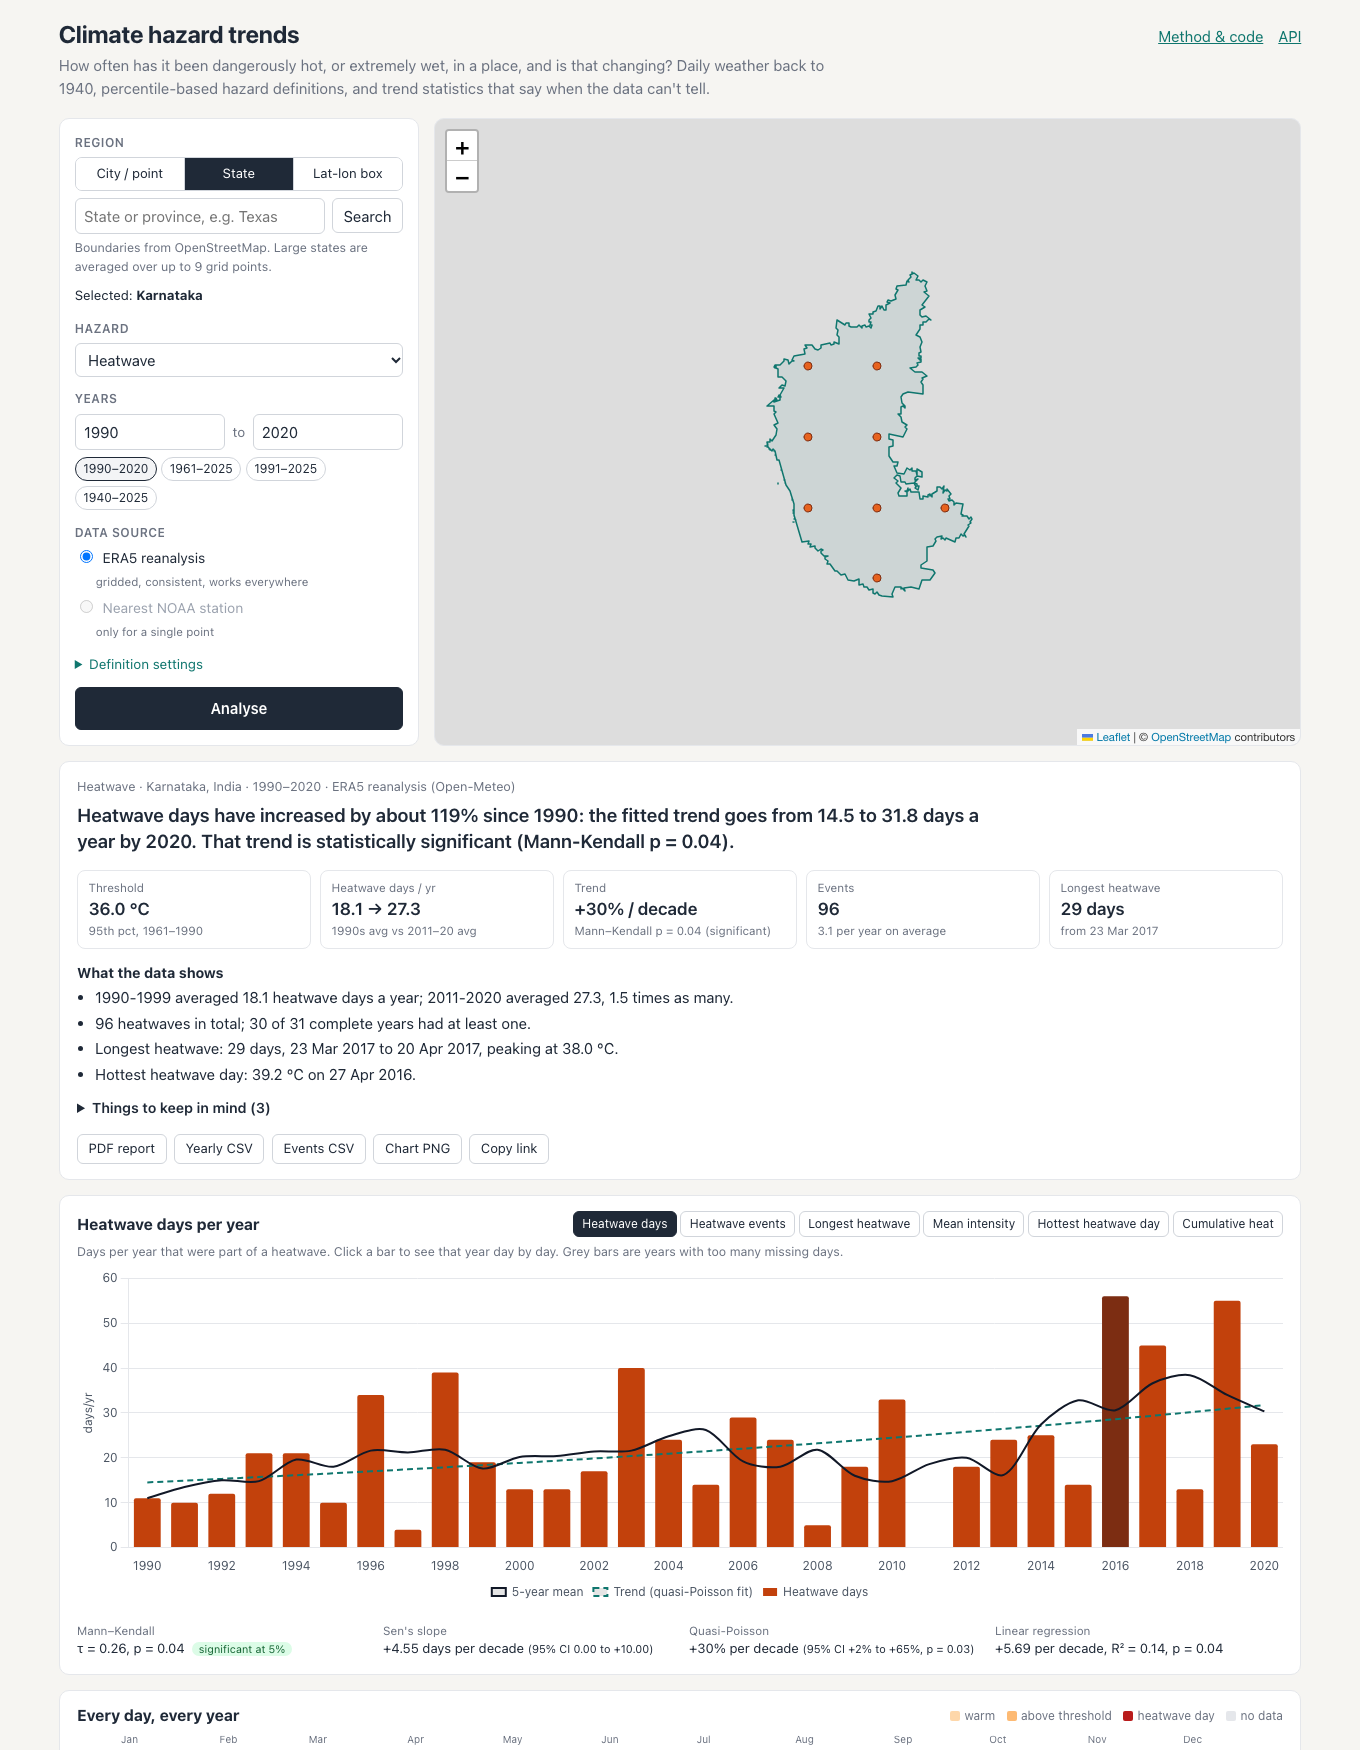
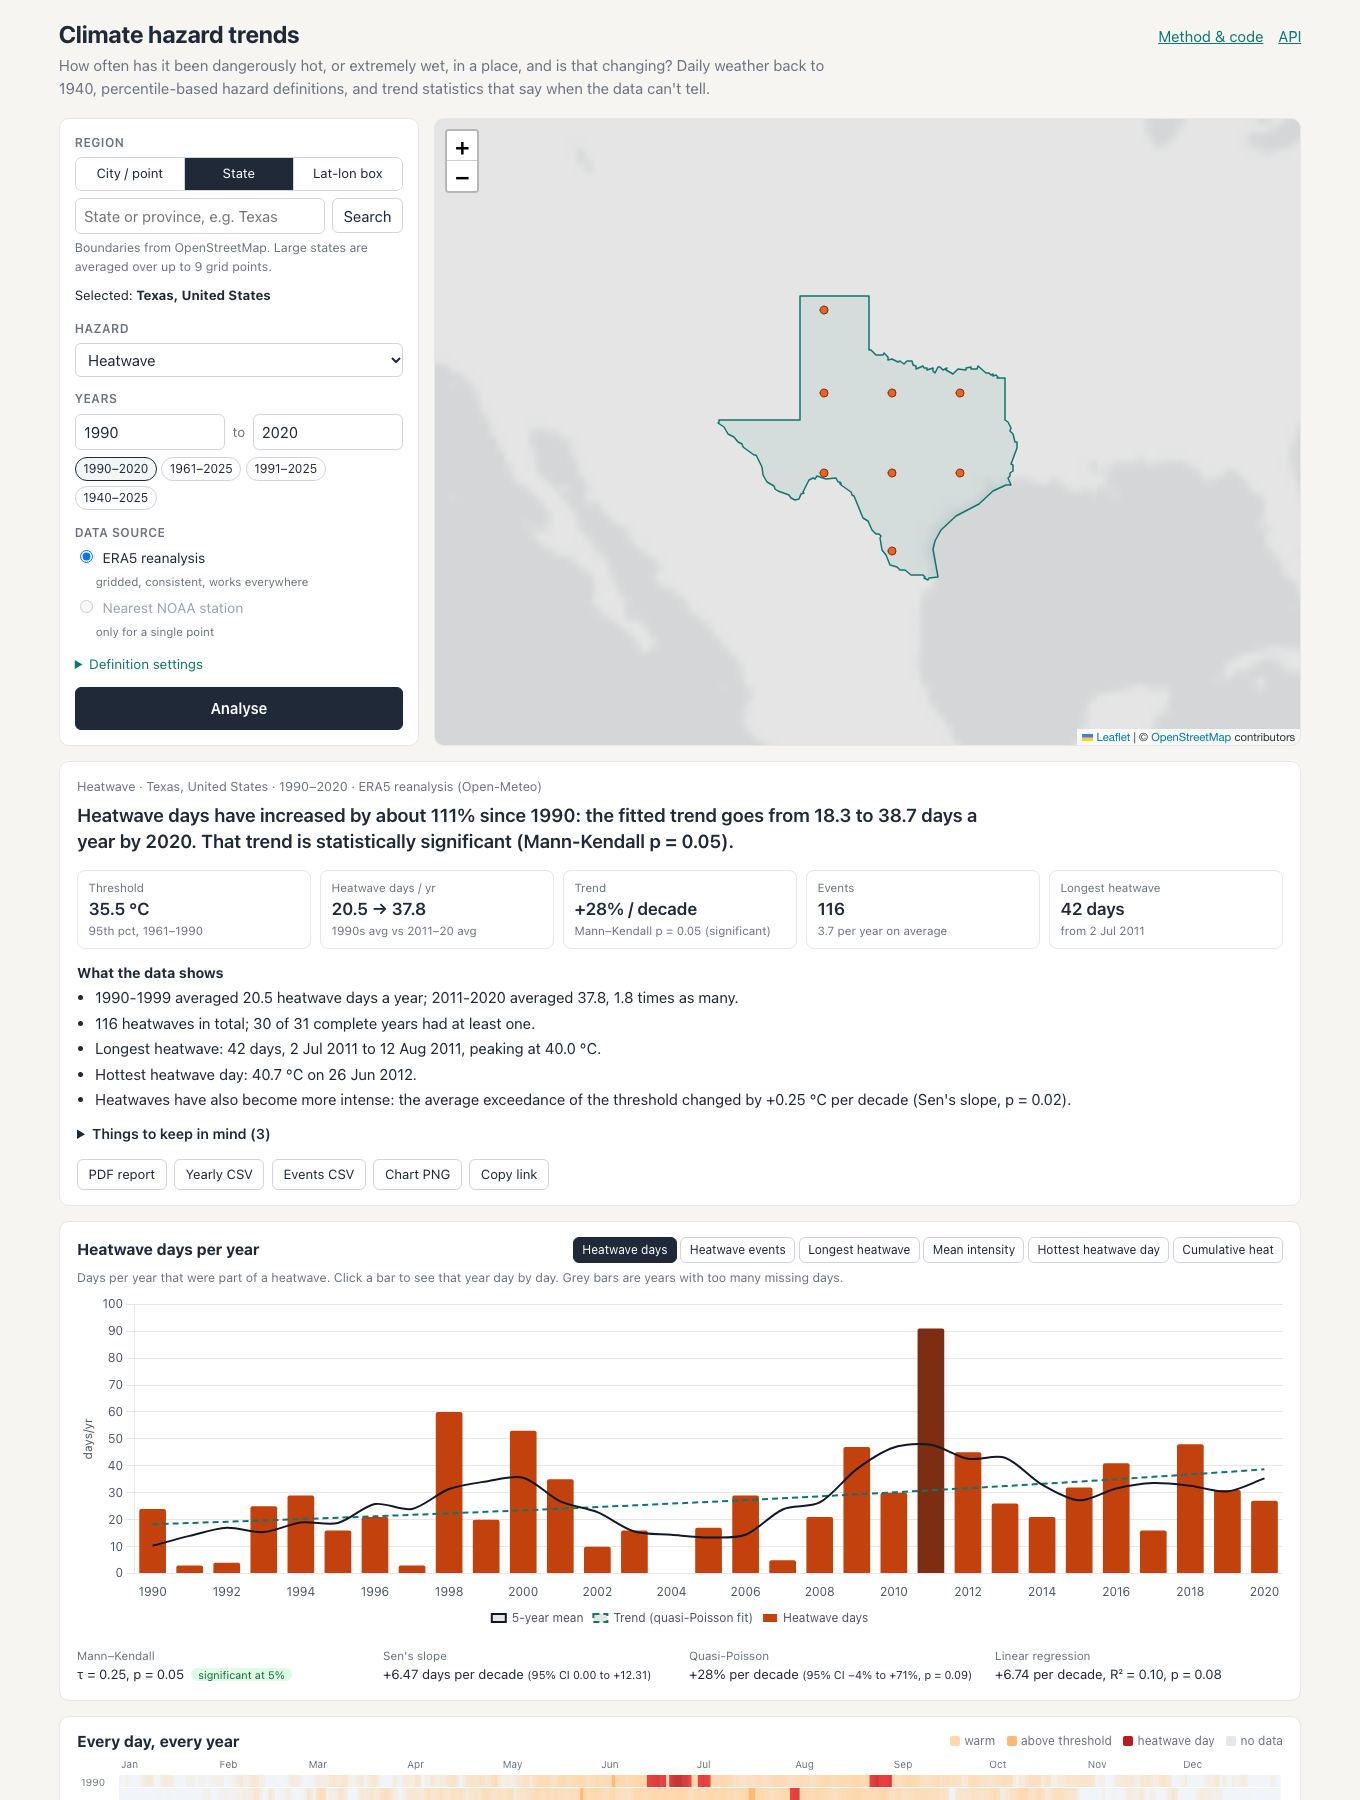
Say when a trend's direction is clear but its size isn't; 3-decimal p-values near 0.05

diff --git a/frontend/src/format.ts b/frontend/src/format.ts
@@ -11,7 +11,7 @@ export function signed(v: number, digits = 1): string {
 
 export function pValue(p: number): string {
   if (p < 0.001) return "p < 0.001";
-  return `p = ${p < 0.01 ? p.toFixed(3) : p.toFixed(2)}`;
+  return `p = ${p < 0.1 ? p.toFixed(3) : p.toFixed(2)}`;
 }
 
 export function shortDate(iso: string): string {

diff --git a/backend/app/insights.py b/backend/app/insights.py
@@ -23,7 +23,9 @@ NOUNS = {
 
 
 def _p(p: float) -> str:
-    return "p < 0.001" if p < 0.001 else f"p = {p:.3f}" if p < 0.01 else f"p = {p:.2f}"
+    # Three decimals near the 0.05 line, otherwise "p = 0.05 (significant)"
+    # shows up for p = 0.0495 and looks like a contradiction.
+    return "p < 0.001" if p < 0.001 else f"p = {p:.3f}" if p < 0.1 else f"p = {p:.2f}"
 
 
 def _pct(v: float) -> str:
@@ -119,6 +121,15 @@ def build(hz: Hazard, p: Params, result: dict, trends: dict, region: dict, quali
             find(f"The wettest day of the year has changed by {slope:+.1f} mm per decade (Sen's slope, {_p(t['mk']['p'])}).")
 
     # --- caveats --------------------------------------------------------
+    if primary.get("enough_data") and primary["mk"]["p"] < 0.05:
+        qp = primary.get("poisson")
+        if qp and qp["pct_per_decade_lo"] < 0 < qp["pct_per_decade_hi"]:
+            caveat(f"The direction of the trend is fairly clear, but its size isn't: the 95% interval for the "
+                   f"change runs from {qp['pct_per_decade_lo']:+.0f}% to {qp['pct_per_decade_hi']:+.0f}% per decade.")
+        elif not qp and primary["sen"]["lo"] < 0 < primary["sen"]["hi"]:
+            caveat("The direction of the trend is fairly clear, but its size isn't: the confidence interval "
+                   "of Sen's slope includes zero.")
+
     if primary.get("enough_data"):
         n = primary["n"]
         if n < 30:

diff --git a/backend/app/analysis.py b/backend/app/analysis.py
@@ -22,7 +22,7 @@ from .trends import summarize
 log = logging.getLogger(__name__)
 
 # Bump when the hazard/trend logic changes so old cached analyses aren't served.
-ALGO_VERSION = 4
+ALGO_VERSION = 5
 MAX_EVENTS = 3000
 
 SOURCES = {

diff --git a/README.md b/README.md
@@ -10,7 +10,7 @@ you can be about the answer.
 It runs on a scale-to-zero free tier, so if nobody has used it for a while the
 first load takes ~20 seconds.
 
-![Karnataka, 1990-2020](docs/screenshot.png)
+![Texas, 1990-2020](docs/screenshot.png)
 
 The default view is the one the brief asks for: heatwaves, defined as 3+
 consecutive days with a daily maximum above the 95th percentile, for a region
@@ -226,8 +226,9 @@ Three real results (1990–2020, 1961–1990 thresholds) show the rules at work:
 | region | heatwave days/yr, 1990s → 2011–20 | Mann-Kendall | what the app says |
 |---|---|---|---|
 | Phoenix | 15.1 → 18.5 | p = 0.42 | no clear trend |
-| Paris | 19.6 → 26.4 | p = 0.08 | signs of an increase, weak evidence |
-| Karnataka (state) | 18.1 → 27.3 | p = 0.04 | increased by about 119% since 1990 |
+| Paris | 19.6 → 26.4 | p = 0.077 | signs of an increase, weak evidence |
+| Karnataka (state) | 18.1 → 27.3 | p = 0.041 | increased by about 119% since 1990 |
+| Texas (state) | 20.5 → 37.8 | p = 0.049 | increased by about 111%, *but* the 95% interval for the size runs from −4% to +71% per decade, so the direction is clearer than the magnitude |
 
 A naive "+23% in Phoenix" headline would have been easy to write and wrong
 to believe.
